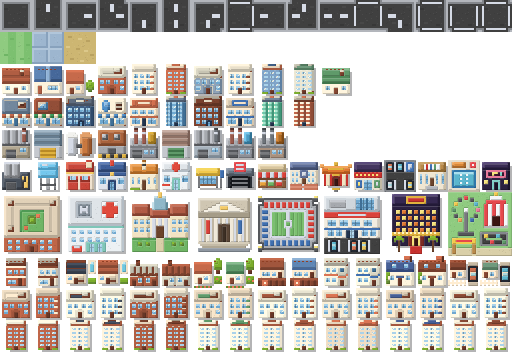
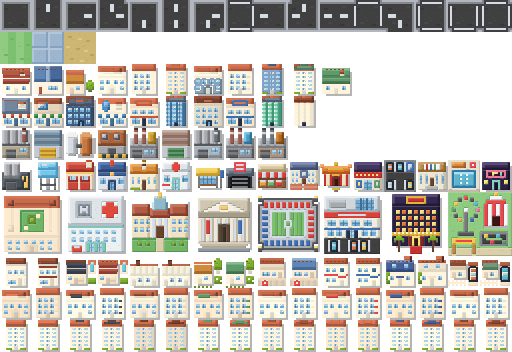
Repaint styled buildings by place and add street props per look
Walls that were dark or vivid came out as roof. The repaint now takes
the top of each building as roof and the rest as wall, keeping signs,
awnings and doors. Buses wear each city's livery (a cable car in San
Francisco), and the streets get hydrants, food carts and manhole steam
in New York, cable rails in San Francisco and parasols by the water in
California.

Changed region(s): [[0.0, 0.5312, 1.0, 1.0], [0.0, 0.1562, 0.6875, 0.375], [0.1562, 0.7188, 0.1875, 0.75]]

diff --git a/src/rendering/TileRenderer.ts b/src/rendering/TileRenderer.ts
@@ -170,7 +170,16 @@ export class TileRenderer {
           tileAt(GRASS[seed % 7 === 0 ? 1 : 0], x, y);
           const roll = (seed >>> 8) % 100;
           // A tree's canopy covers the tile above, so it only grows below open grass.
-          if (roll < 4 && theme === 'california') {
+          if (theme === 'california' && roll >= 8 && roll < 30 &&
+              roadSides.some(([dx, dy]) => map.get({ x: x + dx, y: y + dy }) === 'river')) {
+            // By the water in California: a towel and a striped parasol on the grass.
+            const left = x * TILE_SIZE + 6 + seed % 10;
+            const top = y * TILE_SIZE + 8 + (seed >>> 4) % 10;
+            g.rect(left + 1, top + 9, 9, 4).fill([0x5bb6ce, 0xf2c94c, 0xe8799a][seed % 3]);
+            g.rect(left + 5, top + 3, 1, 8).fill(0x25232b);
+            g.rect(left, top + 1, 11, 3).fill(0xe5484d).rect(left + 2, top + 1, 2, 3).rect(left + 7, top + 1, 2, 3).fill(0xf4f6f8)
+              .rect(left + 2, top, 7, 1).fill(0xe5484d);
+          } else if (roll < 4 && theme === 'california') {
             // A palm: a thin leaning trunk and a crown of fronds.
             const left = x * TILE_SIZE;
             const top = y * TILE_SIZE;
@@ -245,6 +254,21 @@ export class TileRenderer {
             });
             g.fill(MEDIAN);
           }
+          if (theme === 'newyork') {
+            // New York's pavements: a hydrant here and there, and a food cart under an umbrella by the shops.
+            if (seed % 4 === 0) g.rect(left + 2, top + 26, 3, 4).fill(0xc8322e).rect(left + 1, top + 27, 5, 1).fill(0xe5484d);
+            if (seed % 5 === 1 && roadSides.some(([dx, dy]) => map.get({ x: x + dx, y: y + dy }) === 'commercial')) {
+              g.rect(left + 24, top + 24, 7, 5).fill(0x25232b).rect(left + 25, top + 25, 5, 3).fill(0xd6dbe6);
+              g.rect(left + 23, top + 20, 9, 3).fill(0xf2c94c).rect(left + 25, top + 20, 2, 3).rect(left + 29, top + 20, 2, 3).fill(0x3f6fb0);
+              g.rect(left + 27, top + 23, 1, 2).fill(0x25232b);
+            }
+          } else if (theme === 'sf' && tile === 'avenue') {
+            // San Francisco's avenues carry the slot and rails of the cable cars.
+            let ways = 0;
+            for (const [dx, dy, bit] of roadSides) if (isRoad(map.get({ x: x + dx, y: y + dy }))) ways |= bit;
+            if ((ways & 10) && !(ways & 5)) g.rect(left, top + 9, TILE_SIZE, 1).rect(left, top + 22, TILE_SIZE, 1).fill(0x8d9199);
+            else if ((ways & 5) && !(ways & 10)) g.rect(left + 9, top, 1, TILE_SIZE).rect(left + 22, top, 1, TILE_SIZE).fill(0x8d9199);
+          }
           if (map.hasStation({ x, y })) {
             // A metro station under the road: stairs down in one corner of the pavement and
             // a red sign on a post beside them. The road itself stays clear.
@@ -252,7 +276,8 @@ export class TileRenderer {
             g.rect(left + 2, top + 2, 11, 7).fill(0x3a3f47);
             g.rect(left + 3, top + 4, 9, 1).rect(left + 3, top + 6, 9, 1).fill(0x8d98a6);
             g.rect(left + 15, top + 1, 9, 9).fill(0x1b1d22);
-            g.rect(left + 16, top + 2, 7, 7).fill(0xe5484d);
+            // New York's subway wears green; the others red.
+            g.rect(left + 16, top + 2, 7, 7).fill(theme === 'newyork' ? 0x2f8f4a : 0xe5484d);
             g.rect(left + 17, top + 3, 1, 5).rect(left + 21, top + 3, 1, 5).rect(left + 18, top + 4, 1, 1)
               .rect(left + 20, top + 4, 1, 1).rect(left + 19, top + 5, 1, 1).fill(0xffffff);
           }

diff --git a/src/rendering/CityRenderer.ts b/src/rendering/CityRenderer.ts
@@ -498,7 +498,17 @@ export class CityRenderer {
             const width = upright ? wide : long;
             const height = upright ? long : wide;
             people.rect(x - width / 2 - 1, y - height / 2 - 1, width + 2, height + 2).fill(0x1b1d22);
-            people.rect(x - width / 2, y - height / 2, width, height).fill(line.kind === 'metro' ? colour : 0xf2c94c);
+            // A bus is the city's own: a cable car in San Francisco, blue and white in New York, orange in California.
+            const { theme } = this.city;
+            const body = line.kind === 'metro' ? colour : theme === 'sf' ? 0x8a1f2b : theme === 'newyork' ? 0x2f5fa8 :
+              theme === 'california' ? 0xf0862c : 0xf2c94c;
+            people.rect(x - width / 2, y - height / 2, width, height).fill(body);
+            if (line.kind === 'bus' && theme === 'sf') {
+              // Open ends with a cream roof and a gold trim.
+              people.rect(x - width / 2 + (upright ? 0 : 4), y - height / 2 + (upright ? 4 : 0),
+                upright ? width : width - 8, upright ? height - 8 : height).fill(0xf1e3c2);
+              people.rect(x - width / 2, y - height / 2, upright ? width : 1, upright ? 1 : height).fill(0xe0b23e);
+            }
             // A bus wears its line's colour as a stripe; a train as its whole body, with pale windows.
             if (line.kind === 'bus') {
               people.rect(x - width / 2, y - height / 2, upright ? 3 : width, upright ? height : 3).fill(colour);
@@ -588,6 +598,15 @@ export class CityRenderer {
               const wide = tile === 'casino' ? 2 * TILE_SIZE - 16 : TILE_SIZE - 8;
               effects.rect(px + (tile === 'casino' ? 8 : 4), py + (tile === 'casino' ? 40 : 12), wide, 2)
                 .fill({ color: 0xfff4c2, alpha: night ? 0.95 : 0.5 });
+            }
+          } else if (isRoad(tile) && this.city.theme === 'newyork' && seed % 11 === 0) {
+            // Steam rising from a manhole in the street.
+            effects.rect(px + 13, py + 13, 6, 6).fill(0x25232b).rect(px + 14, py + 14, 4, 4).fill(0x55575b);
+            for (let puff = 0; puff < 3; puff++) {
+              const rise = (time / 1800 + puff / 3 + seed % 7 / 7) % 1;
+              const size = 3 + Math.floor(rise * 6);
+              effects.rect(px + 16 - size / 2 + Math.sin(rise * 5 + seed) * 2, py + 12 - rise * 20, size, size)
+                .fill({ color: 0xf4f6f8, alpha: 0.6 * (1 - rise) });
             }
           } else if (tile === 'temple' && this.city.comboAt({ x, y }) === 'fair' && night) {
             // The lanterns of the temple fair glow at night.

diff --git a/tools/draw_tiles.py b/tools/draw_tiles.py
@@ -1308,7 +1308,12 @@ def restyle(sheet, style, F):
 
     def repaint(left, top, size, which):
         wall = spec['walls'][which % len(spec['walls'])]
-        for y in range(top, top + size):
+        # Where the building is: its roof is the top of it, its walls the rest.
+        rows = [y for y in range(top, top + size) if any(pixels[x, y][3] == 255 for x in range(left, left + size))]
+        if not rows:
+            return
+        eaves = rows[0] + max(3, round(len(rows) * 0.22))
+        for y in rows:
             for x in range(left, left + size):
                 r, g, b, a = pixels[x, y]
                 if a < 255:
@@ -1318,8 +1323,17 @@ def restyle(sheet, style, F):
                 # Outlines, glass and greenery stay as they are.
                 if val < 0.22 or (185 <= hue <= 235 and sat > 0.22) or (70 <= hue <= 165 and sat > 0.25):
                     continue
-                to = wall if sat < 0.34 and val >= 0.55 else spec['roof']
-                nr, ng, nb = colorsys.hsv_to_rgb(to[0] / 360, to[1], max(0.0, min(1.0, val * to[2])))
+                if y < eaves:
+                    to = spec['roof']
+                    value = val * to[2]
+                else:
+                    # A sign, an awning or a door keeps its own strong colour.
+                    if sat > 0.58 and val > 0.5:
+                        continue
+                    to = wall
+                    # Dark walls and pale ones both come out as the city's wall, a little darker or lighter.
+                    value = (0.62 + 0.38 * val) * to[2]
+                nr, ng, nb = colorsys.hsv_to_rgb(to[0] / 360, to[1], max(0.0, min(1.0, value)))
                 pixels[x, y] = (round(nr * 255), round(ng * 255), round(nb * 255), 255)
 
     def solid(x, y):

diff --git a/docs/v0.2-design-proposal.md b/docs/v0.2-design-proposal.md
@@ -468,7 +468,9 @@ Task 11、12、13 與水電、需求值一起完成，測試在 `src/simulation/
 - **資料**：`THEMES`／`Theme` 在 `SaveData.ts`，`BuildingSystem.theme` 是公開欄位，存在 `SaveData.theme`（舊存檔讀成 `classic`）。**模擬完全不看它。**
 - **圖**：`draw_tiles.py` 的 `STYLES` 和 `restyle()`。做法是把畫好的那張圖裡「住宅列、商業列、各種住宅的三列、集合住宅」逐點重新上色：暗線、玻璃、綠色植物不動；飽和度低又亮的當牆（換成該風格的牆色，一棟一色輪流），其餘當屋頂和飾條。之後再蓋上各風格的小東西（紐約的防火梯和水塔、舊金山的白飾條、加州的屋脊瓦）。分類是靠顏色猜的，所以有些建築的牆會被當成屋頂變成灰色；要修就在 `repaint()` 的判斷式調。
 - **畫面**：`TileRenderer` 的建構式現在收四張圖，`draw()` 開頭依 `city.theme` 選一張。道具都是直接畫的：加州的棕櫚（草地那一段）、橋的顏色和橋塔（橋那一段）、紐約的黃色計程車（`drawCar`）、舊金山的晨霧和加州的夕陽（`drawLife()`）。
-- **沒做的**：工廠、公共建築、大建築沒有分風格；舊金山沒有坡道和纜車，紐約沒有地鐵出口和路邊攤；風格不影響任何數字。
+- **重新上色改成看位置**：第一版只靠顏色分牆和屋頂，深色或鮮豔的牆會被當成屋頂變灰。現在 `repaint()` 先找出建築在那一格裡佔的範圍，最上面兩成多算屋頂，其餘算牆；牆上很鮮豔的小塊（招牌、遮雨棚、門）保留原色。
+- **道具（第二批）**：公車依風格換顏色，舊金山畫成纜車（`CityRenderer` 畫路線車輛的地方）；`TileRenderer` 畫道路那一段加了紐約的消防栓與餐車、舊金山大道上的軌道、捷運牌子的顏色；草地那一段加了加州水邊的陽傘；`drawLife()` 加了紐約人孔的蒸氣。
+- **沒做的**：工廠、公共建築、大建築沒有分風格；舊金山沒有坡道；風格不影響任何數字。
 
 ## 下次要做
 

diff --git a/README.md b/README.md
@@ -153,6 +153,7 @@ npm run test
   - **舊金山**：住宅和商店是粉彩色配灰藍屋頂、白色飾條；橋是紅色的、有橋塔；早上 5 到 9 點有霧。
   - **加州**：米白牆配紅瓦屋頂；草地上的樹換成棕櫚；傍晚有一層金色的光。
   - **紐約**：紅磚和褐石牆配深色平屋頂，高一點的樓有防火梯和屋頂水塔；路上的車大多是黃色計程車；橋是灰色鋼橋、有橋塔。
+  - 道具：舊金山的公車是纜車（酒紅配米白），大道上有纜車的軌道；紐約的公車是藍色的，捷運牌子是綠色，人行道上有消防栓、商店旁有餐車，路面的人孔會冒蒸氣；加州的公車是橘色的，水邊的草地上有陽傘和海灘巾。
   - 工廠、公共建築和大建築目前四種風格都一樣。圖由 `tools/draw_tiles.py` 的 `restyle()` 從原本那張圖重新上色產生（`city-sf.png`、`city-california.png`、`city-newyork.png`）。
 - **遲到**：上班路上被塞住（比空路多花三成以上時間）的人會遲到，當天薪水少一成，也會抱怨。「城市」分頁寫著現在有幾個人塞在路上。
 - **油錢和加油站**（「交通」分頁，$1,500，每月 $60，到過 50 人開放，範圍 10 格）：有車又有工作的人每天要付油錢，路越遠越多。家在加油站範圍內，城市抽三成當油稅；不在範圍內的人要去外地加，多花五成，城市一毛也收不到。
